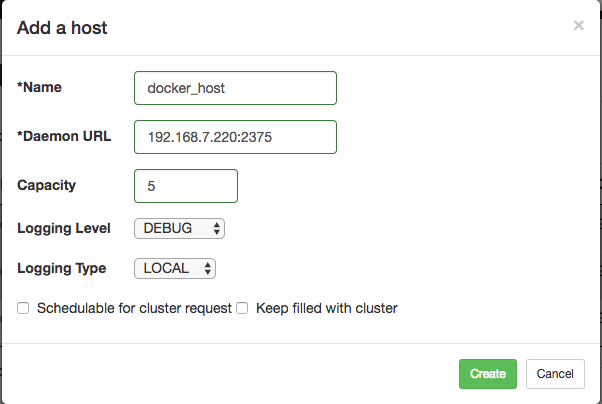
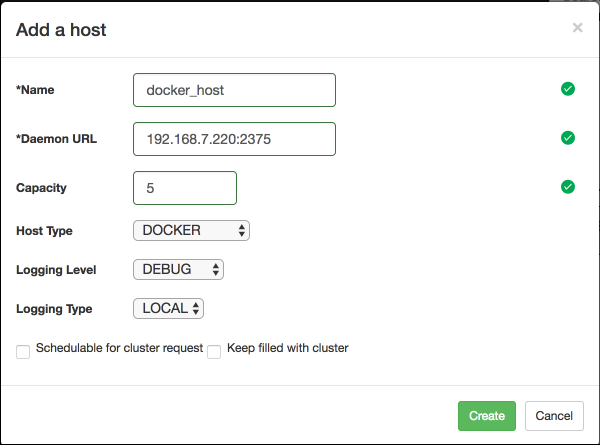
[CE-302] Update Tutorial
Update create host picture and description of fileds

Update some tiny places to sync with latest UI

diff --git a/docs/tutorial.md b/docs/tutorial.md
@@ -17,7 +17,7 @@ By default, the dashboard will listen on port `8080` at the Master Node, you can
 
 The first time you start Cello, there will be no hosts in the pool. There are two methods to add more hosts into the pool.
 
-* Through the `Overview` page: Click the `+` button after the `Working Host` keyword;
+* Through the `Overview` page: Click the `+` button after the `Working Hosts` keyword;
 * Through the `Hosts` page: Click the `Add Host` button at the top right corner.
 
 Then you will see a jumped-out dialog to input the setup info.
@@ -28,9 +28,15 @@ Suppose it's a Native Docker server to import as a host, input those fields
 
 * Name: docker_host
 * Daemon URL: `192.168.7.220:2375` (replace this with your docker host address)
-* Capacity: 5
+* Capacity (Maximum number of chains on that host): 5
+* Logging Level: Default is DEBUG, you can change to `INFO`, `NOTICE`,`WARNING`,`ERROR`,`CRITICAL`
+* Logging Type: Default is LOCAL
+* Schedulable for cluster request: True or False. If click to set True, it will schedule a chain request to that host, useful when maintain the host
+* Keep filled with cluster: True or False. If click to set True, it will autofill the host server to its capacity with chains.
 
 After successful adding, you can find the `docker_host` shown in the Host page, with 0 chains and Cap is 5.
+
+If you are going to create vSphere type host, you can take the steps at the [vSphere type host creation guide](./setup_worker_vsphere.md).
 
 ## Create a Chain
 
@@ -53,10 +59,16 @@ Then you can see it at the Active Chain page.
 It will be difficult if you have a numbers of chains to create manually. Cello provides automated ways to save time.
 
 * Use the host action dropdown menu: The Fillup button will fill the host full with chains until its at capacity, while the Clean button will clean all unused chains from the host.
-* Use the Autofill checkbox: In the host configuration, you can find a `Autofill` checkbox, which will automatically watch the host and keep it full with chains to the capacity.
+* Use the Autofill checkbox: In the host configuration, you can find a `Keep filled with cluster` checkbox, which will automatically watch the host and keep it full with chains to the capacity.
 
 Try these methods as you like.
 
-If you want to know more advanced operational skills, please continue to the [Dashboard](./dashboard_operator.md).
+## Dashboard for operator
+
+If you want to know more advanced operational skills, please continue to the [Operator Dashboard](./dashboard_operator.md).
+
+## Dashboard for user
+
+If you want to know more usage of chains and smart contracts, please continue to the [User Dashboard](./dashboard_user.md).
 
 <a rel="license" href="http://creativecommons.org/licenses/by/4.0/"><img alt="Creative Commons License" style="border-width:0" src="https://i.creativecommons.org/l/by/4.0/88x31.png" /></a><br />This work is licensed under a <a rel="license" href="http://creativecommons.org/licenses/by/4.0/">Creative Commons Attribution 4.0 International License</a>.
